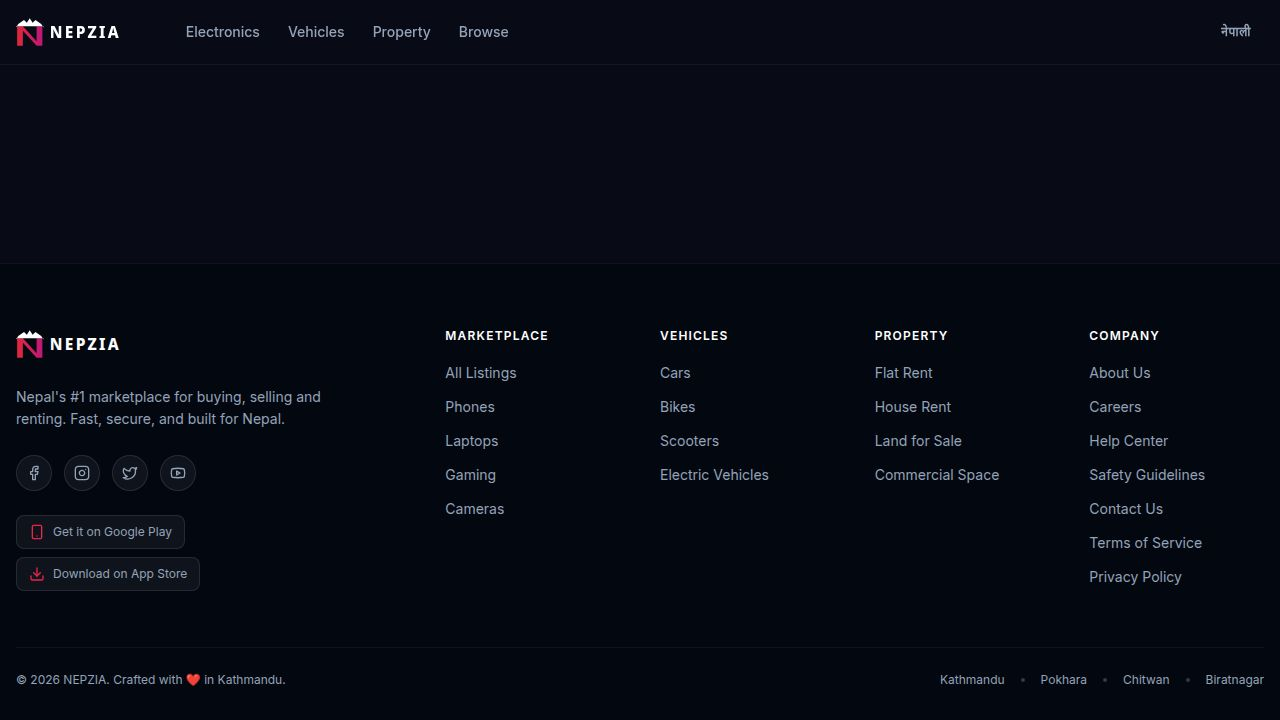
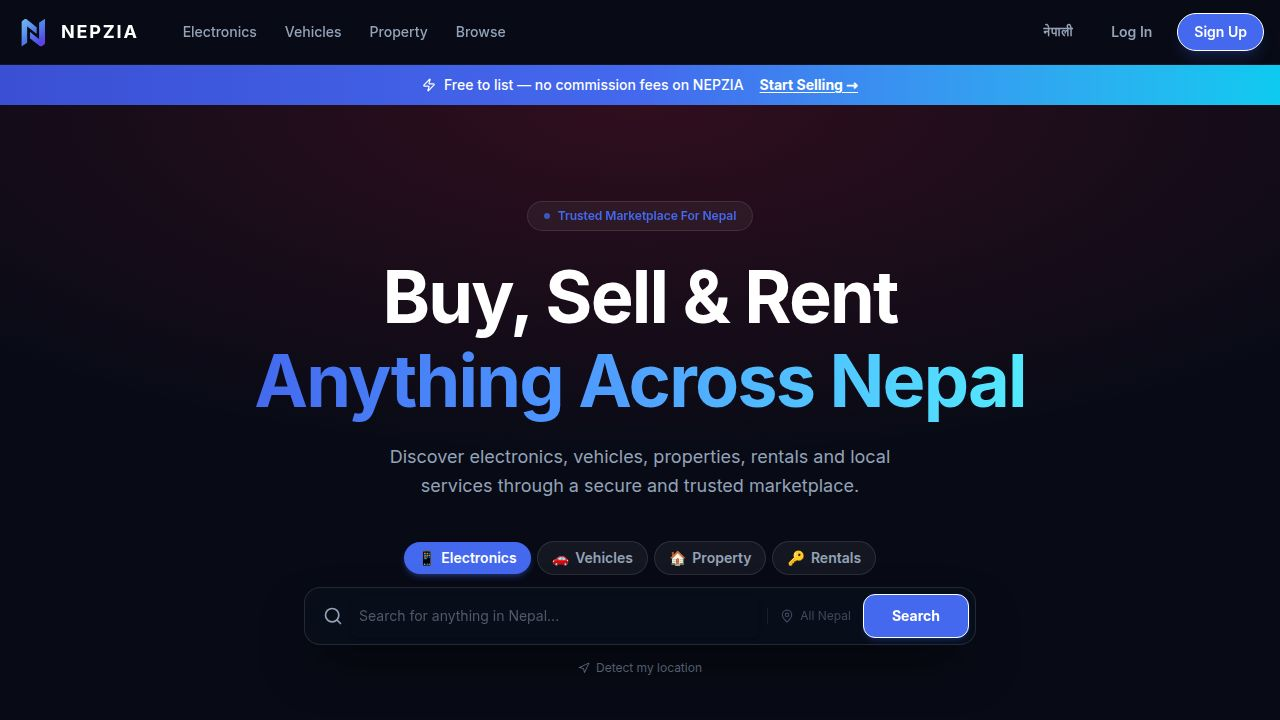
Revamp the marketplace homepage with a focus on conversion and trust
Update the homepage hero section with a new design, including a red gradient announcement bar, updated headlines, primary call-to-action buttons, larger search bar, and trust statistics. Modify locale files for new text and update the `<Helmet>` component for social media sharing.

Replit-Commit-Author: Agent
Replit-Commit-Session-Id: 340e1cb0-5321-4160-90e5-33e5ddb70f8d
Replit-Commit-Checkpoint-Type: full_checkpoint
Replit-Commit-Event-Id: 82f51e5c-3037-4d06-8f51-e81e006b2a82
Replit-Commit-Screenshot-Url: https://storage.googleapis.com/screenshot-production-us-central1/889b558e-bf56-46e8-a8d2-3c2df16a2340/340e1cb0-5321-4160-90e5-33e5ddb70f8d/geQweDt
Replit-Helium-Checkpoint-Created: true

diff --git a/artifacts/nepzia/src/pages/Home.tsx b/artifacts/nepzia/src/pages/Home.tsx
@@ -220,41 +220,62 @@ export default function Home() {
         <meta name="twitter:image" content={`${siteOrigin}/opengraph.jpg`} />
       </Helmet>
 
-      {/* Announcement Bar */}
-      <div className="bg-gradient-to-r from-[#3B4FD4] via-primary to-[#0DCAF0] text-white text-center py-2.5 px-4 flex items-center justify-center gap-2 text-xs sm:text-sm font-medium">
-        <Zap className="h-3.5 w-3.5 flex-shrink-0" />
+      {/* ─── Announcement Bar (Red) ───────────────────────────── */}
+      <div className="bg-gradient-to-r from-[#991B1B] via-[#EF4444] to-[#B91C1C] text-white text-center py-2.5 px-4 flex items-center justify-center gap-2 text-xs sm:text-sm font-semibold">
         <span>{t("home.announcement")}</span>
-        <Link href="/sell" className="ml-2 font-bold underline underline-offset-2 hover:no-underline flex-shrink-0">
+        <Link href="/listings/new" className="ml-1 font-black underline underline-offset-2 hover:no-underline flex-shrink-0 opacity-90 hover:opacity-100">
           {t("home.announcementCta")}
         </Link>
       </div>
 
       {/* ─── Hero ─────────────────────────────────────────────── */}
-      <section className="relative pt-16 pb-12 sm:pt-24 sm:pb-16 overflow-hidden">
-        {/* Subtle radial glow */}
-        <div className="pointer-events-none absolute inset-0 bg-[radial-gradient(ellipse_70%_55%_at_50%_0%,rgba(232,28,68,0.18),transparent)]" />
+      <section
+        className="relative pt-14 pb-10 sm:pt-20 sm:pb-14 overflow-hidden"
+        style={{ background: "radial-gradient(ellipse 80% 60% at 50% -10%, rgba(59,130,246,0.12) 0%, transparent 70%), #050816" }}
+      >
+        {/* Subtle grid texture */}
+        <div
+          className="pointer-events-none absolute inset-0 opacity-[0.03]"
+          style={{ backgroundImage: "linear-gradient(rgba(255,255,255,.6) 1px,transparent 1px),linear-gradient(90deg,rgba(255,255,255,.6) 1px,transparent 1px)", backgroundSize: "40px 40px" }}
+        />
 
         <div className="container mx-auto px-4 sm:px-6 relative z-10 text-center">
+
           {/* Badge */}
-          <div className="inline-flex items-center gap-2 bg-white/5 border border-white/10 rounded-full px-4 py-1.5 text-[11px] sm:text-xs font-semibold text-primary mb-7 backdrop-blur-sm">
-            <span className="w-1.5 h-1.5 rounded-full bg-primary animate-pulse flex-shrink-0" />
+          <div className="inline-flex items-center gap-2 bg-white/5 border border-white/10 rounded-full px-4 py-1.5 text-[11px] sm:text-xs font-semibold text-white/90 mb-6 backdrop-blur-sm">
+            <span className="w-1.5 h-1.5 rounded-full bg-[#EF4444] animate-pulse flex-shrink-0" />
             {t("home.badge")}
           </div>
 
-          {/* Heading */}
-          <h1 className="text-4xl sm:text-6xl md:text-7xl font-black text-white tracking-tight leading-[1.05] mb-2">
+          {/* Headlines */}
+          <h1 className="text-3xl sm:text-5xl md:text-6xl font-black text-white tracking-tight leading-[1.08] mb-1">
             {t("home.hero1")}
           </h1>
-          <h1 className="text-4xl sm:text-6xl md:text-7xl font-black tracking-tight leading-[1.05] mb-6">
-            <span className="text-transparent bg-clip-text bg-gradient-to-r from-primary via-blue-400 to-cyan-300">
+          <h2 className="text-3xl sm:text-5xl md:text-6xl font-black tracking-tight leading-[1.08] mb-5">
+            <span className="text-transparent bg-clip-text bg-gradient-to-r from-[#3B82F6] via-[#60A5FA] to-[#93C5FD]">
               {t("home.hero2")}
             </span>
-          </h1>
+          </h2>
 
-          {/* Subtitle */}
-          <p className="text-sm sm:text-base md:text-lg text-muted-foreground mb-10 max-w-xl mx-auto leading-relaxed">
+          <p className="text-sm sm:text-base text-white/50 mb-8 max-w-md mx-auto leading-relaxed">
             {t("home.heroSub")}
           </p>
+
+          {/* Dual CTA Buttons */}
+          <div className="flex items-center justify-center gap-3 mb-10 flex-wrap">
+            <Link href="/listings/new">
+              <button className="inline-flex items-center gap-2 px-7 py-3.5 rounded-full bg-[#EF4444] hover:bg-[#DC2626] text-white font-bold text-sm sm:text-base shadow-lg shadow-red-500/25 transition-all duration-150 hover:scale-105 active:scale-95">
+                <Tag className="h-4 w-4" />
+                {t("home.sellNow")}
+              </button>
+            </Link>
+            <Link href="/browse">
+              <button className="inline-flex items-center gap-2 px-7 py-3.5 rounded-full bg-[#3B82F6] hover:bg-[#2563EB] text-white font-bold text-sm sm:text-base shadow-lg shadow-blue-500/25 transition-all duration-150 hover:scale-105 active:scale-95">
+                <Search className="h-4 w-4" />
+                {t("home.browseListings")}
+              </button>
+            </Link>
+          </div>
 
           {/* Search Block */}
           <div className="max-w-2xl mx-auto">
@@ -266,8 +287,8 @@ export default function Home() {
                   onClick={() => setActiveTab(i)}
                   className={`flex items-center gap-1.5 px-3.5 py-1.5 rounded-full text-xs sm:text-sm font-semibold transition-all duration-150 ${
                     activeTab === i
-                      ? "bg-primary text-white shadow-md shadow-primary/30"
-                      : "bg-white/5 border border-white/10 text-muted-foreground hover:bg-white/10 hover:text-white"
+                      ? "bg-[#3B82F6] text-white shadow-md shadow-blue-500/30"
+                      : "bg-white/5 border border-white/10 text-white/60 hover:bg-white/10 hover:text-white"
                   }`}
                 >
                   <span className="text-sm">{tab.emoji}</span>
@@ -276,23 +297,23 @@ export default function Home() {
               ))}
             </div>
 
-            {/* Search Bar */}
+            {/* Search Bar — Larger & more prominent */}
             <form onSubmit={handleSearch}>
-              <div className="relative flex items-center bg-[#080d1a]/90 border border-white/12 rounded-2xl p-1.5 shadow-2xl shadow-black/60 backdrop-blur-md gap-2">
-                <Search className="w-5 h-5 text-muted-foreground ml-3 flex-shrink-0" />
+              <div className="relative flex items-center bg-white/[0.06] border-2 border-white/15 hover:border-[#3B82F6]/50 focus-within:border-[#3B82F6] rounded-2xl p-2 shadow-2xl shadow-black/60 backdrop-blur-md gap-2 transition-colors duration-200">
+                <Search className="w-5 h-5 text-white/40 ml-2 flex-shrink-0" />
                 <Input
                   value={searchQuery}
                   onChange={(e) => setSearchQuery(e.target.value)}
                   placeholder={t("home.searchPlaceholder")}
-                  className="flex-1 bg-transparent border-none text-sm sm:text-base text-white placeholder:text-muted-foreground/50 focus-visible:ring-0 px-2 h-11"
+                  className="flex-1 bg-transparent border-none text-sm sm:text-base text-white placeholder:text-white/30 focus-visible:ring-0 px-2 h-12"
                 />
-                <div className="hidden sm:flex items-center gap-1.5 text-muted-foreground/40 text-xs mr-1 border-l border-white/8 pl-3 flex-shrink-0">
+                <div className="hidden sm:flex items-center gap-1.5 text-white/25 text-xs mr-1 border-l border-white/10 pl-3 flex-shrink-0">
                   <MapPin className="h-3.5 w-3.5" />
                   <span>{t("home.allNepal")}</span>
                 </div>
                 <Button
                   type="submit"
-                  className="rounded-xl bg-primary hover:bg-primary/90 text-white text-sm font-bold px-5 sm:px-7 h-11 shadow-md shadow-primary/20 flex-shrink-0 transition-all"
+                  className="rounded-xl bg-[#3B82F6] hover:bg-[#2563EB] text-white text-sm font-bold px-6 sm:px-8 h-12 shadow-lg shadow-blue-500/25 flex-shrink-0 transition-all"
                 >
                   {t("home.search")}
                 </Button>
@@ -302,16 +323,16 @@ export default function Home() {
             {/* Location strip */}
             <div className="mt-3 flex items-center justify-center min-h-[22px]">
               {geo.city ? (
-                <span className="flex items-center gap-1.5 text-xs text-muted-foreground">
-                  <MapPin className="h-3 w-3 text-primary" />
+                <span className="flex items-center gap-1.5 text-xs text-white/40">
+                  <MapPin className="h-3 w-3 text-[#3B82F6]" />
                   {t("home.showingNear")}{" "}
-                  <span className="text-white font-medium ml-0.5">{geo.city}</span>
+                  <span className="text-white/70 font-medium ml-0.5">{geo.city}</span>
                 </span>
               ) : (
                 <button
                   onClick={geo.request}
                   disabled={geo.loading}
-                  className="flex items-center gap-1.5 text-xs text-muted-foreground/70 hover:text-primary transition-colors disabled:opacity-50"
+                  className="flex items-center gap-1.5 text-xs text-white/35 hover:text-[#3B82F6] transition-colors disabled:opacity-50"
                 >
                   <Navigation className="h-3 w-3" />
                   {geo.loading
@@ -322,6 +343,26 @@ export default function Home() {
                 </button>
               )}
             </div>
+          </div>
+
+          {/* ─── Trust Statistics ─────────────────────────── */}
+          <div className="mt-12 grid grid-cols-2 sm:grid-cols-4 gap-3 max-w-2xl mx-auto">
+            {[
+              { val: t("home.stat1Value"), label: t("home.stat1Label"), color: "#3B82F6" },
+              { val: t("home.stat2Value"), label: t("home.stat2Label"), color: "#EF4444" },
+              { val: t("home.stat3Value"), label: t("home.stat3Label"), color: "#3B82F6" },
+              { val: t("home.stat4Value"), label: t("home.stat4Label"), color: "#22C55E" },
+            ].map(({ val, label, color }) => (
+              <div
+                key={label}
+                className="flex flex-col items-center py-4 px-3 rounded-2xl bg-white/[0.04] border border-white/[0.08] hover:border-white/15 transition-colors"
+              >
+                <span className="text-2xl sm:text-3xl font-black tracking-tight" style={{ color }}>
+                  {val}
+                </span>
+                <span className="text-xs text-white/50 mt-1 font-medium tracking-wide uppercase">{label}</span>
+              </div>
+            ))}
           </div>
         </div>
       </section>